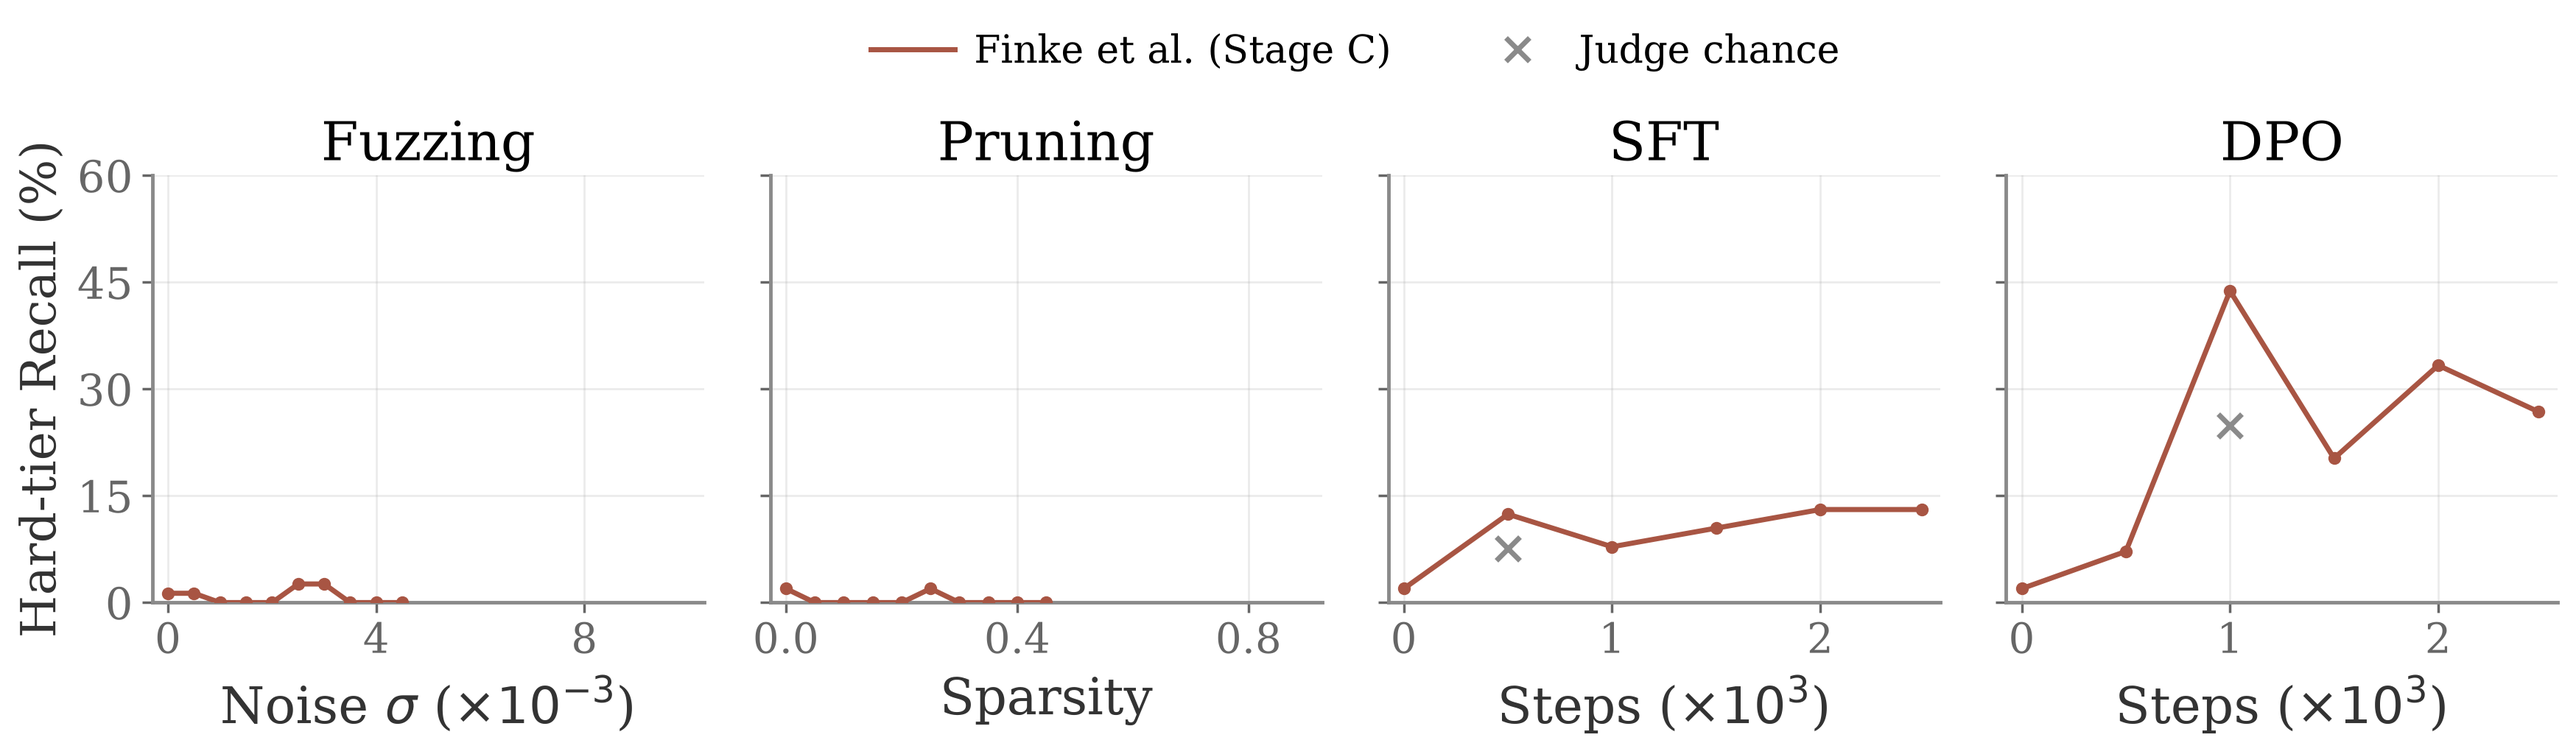
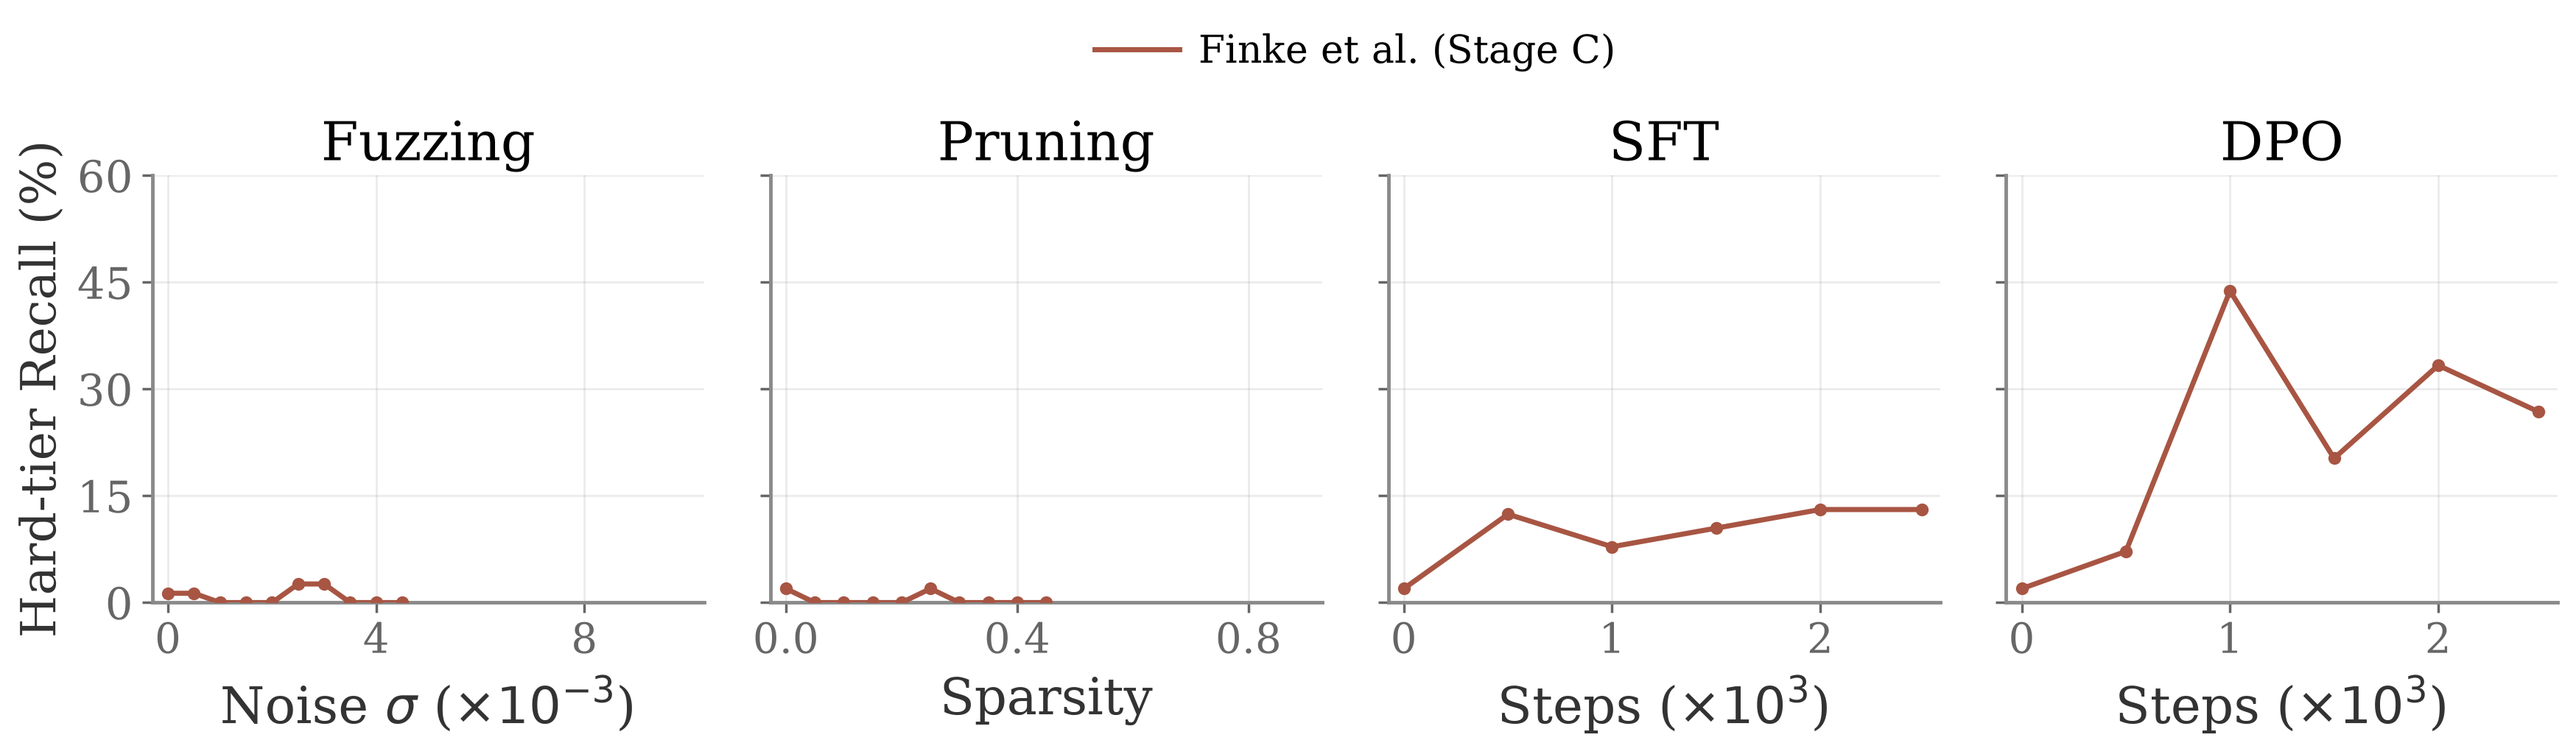
Finke whitebox figures: no annotations (judge chance levels moved to PROVENANCE)
Claude-Session: https://claude.ai/code/session_01DRokL1rX5cxa4mVBRPEajt

Changed region(s): [[0.3429, 0.0312, 0.7169, 0.0938], [0.8416, 0.5625, 0.8727, 0.5938], [0.5611, 0.7188, 0.5922, 0.75]]

diff --git a/experiments/finke_whitebox_figures.py b/experiments/finke_whitebox_figures.py
@@ -10,8 +10,8 @@ Two 1x4 figures (Fuzzing, Pruning, SFT, DPO), drawn exactly like the paper's rep
                            (Mark 2026-10-27: reuse the paper curves rather than rerun RobCoT on Qwen3-14B); the caption
                            must say so.
   finke_whitebox_released  Their released Stage C (Qwen3.6-35B-A3B) on their own task: hard-tier recall over their 51 hard
-                           test items, judged by our local judge. Grey crosses mark the judge's chance level (recall of
-                           the same reports against another item's vulnerability, judge_control.py) where it was measured.
+                           test items, judged by our local judge (its chance level is recorded in tables/PROVENANCE.md;
+                           figures carry no annotations).
 
 Fuzzing is the mean over the three noise seeds at each sigma, as in the paper's curves; pruning is one sweep; SFT and DPO
 are the scanned snapshots (every 500 steps), with step 0 the unattacked organism. A fuzzing or pruning sweep line stops
@@ -126,20 +126,6 @@ def released_curves():
                for t in ("sft", "dpo")}}
 
 
-def released_chance():
-    """{technique: [(step, chance)]} from the judge controls of fine-tuning snapshots."""
-    out = defaultdict(list)
-    for p in sorted(glob.glob(f"{FINKE}/stage_c_*_full_step_*.control.json")):
-        tech = "sft" if "_sft_" in p else "dpo" if "_dpo_" in p else None
-        m = STEP_RE.search(p)
-        d = _load(p)
-        if tech and m and d:
-            c = d["summary"]["hard"].get("mismatched_recall")
-            if c is not None:
-                out[tech].append((int(m.group(1)), c))
-    return out
-
-
 def robcot_curves():
     """{technique: [per-seed WMDP curve]} from the paper's Qwen2.5-14B curve data (mean over Bio, Chem, Cyber)."""
     acc = defaultdict(lambda: defaultdict(dict))   # (tech, seed) -> task -> {x: acc}
@@ -174,7 +160,7 @@ def _draw_band(ax, curves, color, xscale, label):
     return float(np.max(mean + err))
 
 
-def _figure(stem, arms, ylabel, extra=None):
+def _figure(stem, arms, ylabel):
     """arms: [(label, color, kind, {tech: data})], kind "single" (one organism) or "band" (per-seed curves)."""
     import matplotlib
     matplotlib.use("Agg")
@@ -189,10 +175,6 @@ def _figure(stem, arms, ylabel, extra=None):
         for label, color, kind, data in arms:
             draw = _draw_band if kind == "band" else _draw_single
             ytop = max(ytop, draw(ax, data.get(tech), color, rep.XSCALE[tech], label))
-        for step, chance in (extra or {}).get(tech, []):
-            ax.plot([step * rep.XSCALE[tech]], [chance * 100.0], marker="x", color="#8a8a8a", markersize=9,
-                    markeredgewidth=2, linestyle="none", zorder=4)
-            ytop = max(ytop, chance * 100.0)
         ax.set_title(title, pad=6)
     top = min(100.0, max(10.0, math.ceil(ytop * 1.25 / 10.0) * 10.0))
     for ax, (_, tech) in zip(axes, PANELS):
@@ -205,9 +187,6 @@ def _figure(stem, arms, ylabel, extra=None):
     rep.YLABEL = ylabel
     rep._fit_ylabel(fig, axes[0])
     handles = [Line2D([], [], color=c, linewidth=rep.ARM_LINEWIDTH, label=l) for l, c, _, _ in arms]
-    if extra:
-        handles.append(Line2D([], [], color="#8a8a8a", marker="x", markersize=9, markeredgewidth=2, linestyle="none",
-                              label="Judge chance"))
     left, right = 0.062, 0.995
     fig.subplots_adjust(left=left, right=right, bottom=0.18, top=0.76, wspace=0.12)
     fig.legend(handles=handles, loc="upper center", bbox_to_anchor=(0.5 * (left + right), 1.0), ncol=len(handles),
@@ -235,7 +214,7 @@ def main():
                  rep.YLABEL)
     p2 = _figure("finke_whitebox_released",
                  [("Finke et al. (Stage C)", plot_style.BROWN, "single", released)],
-                 "Hard-tier Recall (%)", extra=released_chance())
+                 "Hard-tier Recall (%)")
     print(f"[finke_whitebox_figures] wrote {p1} and {p2} (and .pdf)")
 
 

diff --git a/tables/PROVENANCE.md b/tables/PROVENANCE.md
@@ -4977,3 +4977,7 @@ below lives here, not in the tables:
 - GCG is not reported for the WMDP organisms (stopped before covering every question, Mark 2026-10-27; partial suffixes
   in finke_compare/gcg_partial). The released Stage C GCG row (1.3) is complete.
 - Qi et al. = the LoRA preset (qi_lora), best snapshot; released: mean over 3 fine-tuning seeds.
+- Whitebox figures carry no annotations (Mark 2026-10-29). Released Stage C judge chance levels for the fine-tuning
+  panels: SFT step 500 7.6 (recall 12.4), DPO step 1000 24.8 (recall 43.8; outside the majority class 42.2 vs 4.3).
+  "Judge chance" is our control (judge_control.py), not a quantity from Finke et al.'s paper; their metric is the
+  hard-tier recall itself (the organism reports the item's true vulnerability, as graded by the recall judge).
